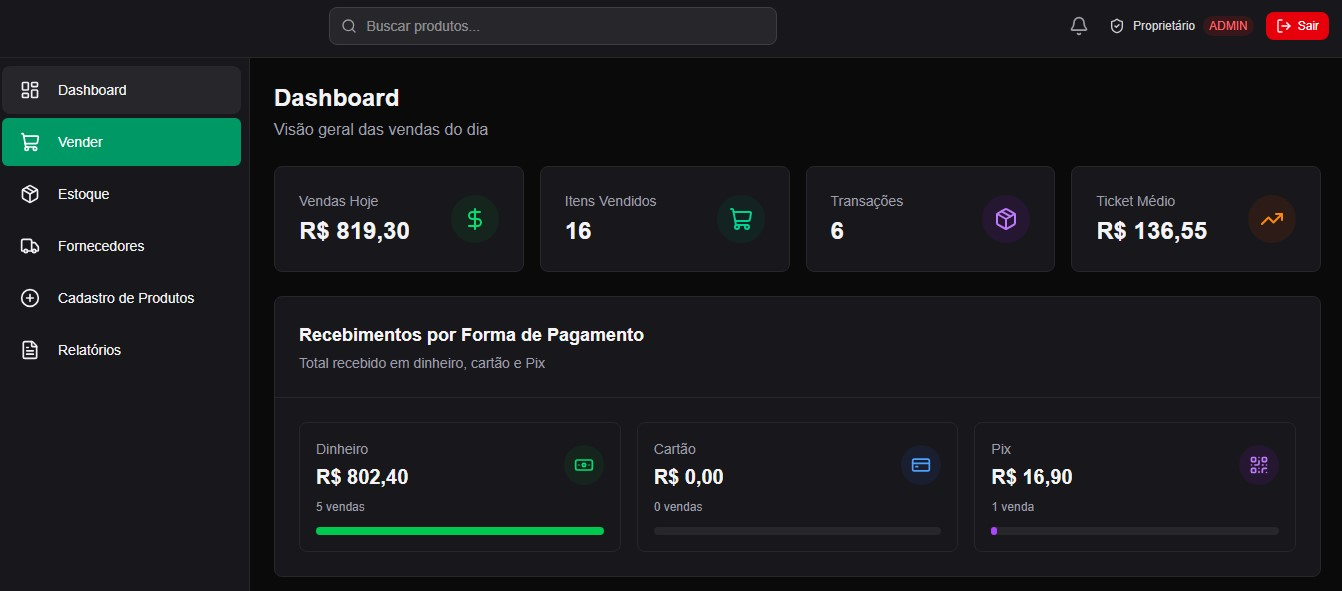
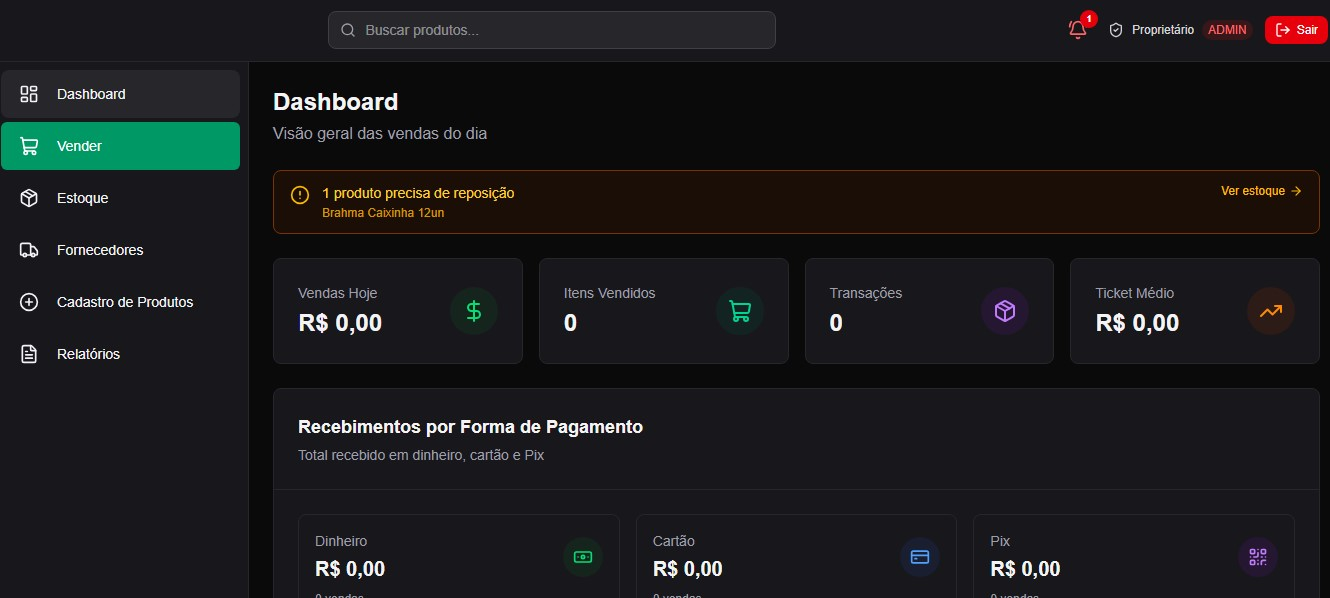
Ataulizando a pagina de sites e sistemas

diff --git a/components/home/ProjectsSection.tsx b/components/home/ProjectsSection.tsx
@@ -1,8 +1,14 @@
+"use client";
+
+
 import Image from "next/image";
+import { useState } from "react";
 import SectionHeading from "@/components/home/SectionHeading";
 import { projects, type Project } from "@/data/projects";
+import { whatsappUrl } from "@/lib/whatsapp";
 
 function ProjectCard({ project, position }: { project: Project; position: number }) {
+  const [hover, setHover] = useState(false);
   return (
     <article className="group flex h-full flex-col border border-line bg-white p-6 transition-colors hover:border-ink md:p-8">
       {project.image && (
@@ -12,9 +18,11 @@ function ProjectCard({ project, position }: { project: Project; position: number
             target="_blank"
             rel="noopener noreferrer"
             className="relative -mx-6 -mt-6 mb-6 block h-40 overflow-hidden border-b border-line bg-white sm:h-48 md:-mx-8 md:-mt-8 md:h-56"
+            onMouseEnter={() => setHover(true)}
+            onMouseLeave={() => setHover(false)}
           >
             <Image
-              src={project.image}
+              src={hover && project.hoverImage ? project.hoverImage : project.image}
               alt={`Captura de tela do projeto ${project.name}`}
               fill
               sizes="(min-width: 768px) 50vw, 100vw"
@@ -22,9 +30,13 @@ function ProjectCard({ project, position }: { project: Project; position: number
             />
           </a>
         ) : (
-          <div className="relative -mx-6 -mt-6 mb-6 h-40 overflow-hidden border-b border-line bg-white sm:h-48 md:-mx-8 md:-mt-8 md:h-56">
+          <div
+            className="relative -mx-6 -mt-6 mb-6 h-40 overflow-hidden border-b border-line bg-white sm:h-48 md:-mx-8 md:-mt-8 md:h-56"
+            onMouseEnter={() => setHover(true)}
+            onMouseLeave={() => setHover(false)}
+          >
             <Image
-              src={project.image}
+              src={hover && project.hoverImage ? project.hoverImage : project.image}
               alt={`Captura de tela do projeto ${project.name}`}
               fill
               sizes="(min-width: 768px) 50vw, 100vw"
@@ -44,12 +56,16 @@ function ProjectCard({ project, position }: { project: Project; position: number
       <h3 className="mt-5 text-[19px] font-semibold leading-snug tracking-tight text-ink">
         {project.name}
       </h3>
+      {project.category && (
+        <p className="mt-1 font-mono text-[10.5px] uppercase tracking-[0.14em] text-neutral-500">
+          {project.category}
+        </p>
+      )}
       {project.description && (
         <p className="mt-3 text-[15px] leading-relaxed text-neutral-600">
           {project.description}
         </p>
       )}
-
       <div className="mt-6 border-l-2 border-neon pl-4">
         <p className="font-mono text-[10.5px] uppercase tracking-[0.14em] text-neutral-500">
           Problema resolvido
@@ -57,16 +73,55 @@ function ProjectCard({ project, position }: { project: Project; position: number
         <p className="mt-2 text-sm leading-relaxed text-neutral-700">{project.problem}</p>
       </div>
 
-      {project.link && (
+      {(project.price !== undefined || project.priceLabel) && (
+        <div className="mt-4 flex items-baseline gap-3">
+          {project.oldPrice !== undefined && (
+            <span className="font-mono text-[13px] text-neutral-400 line-through">
+              R$ {project.oldPrice}
+            </span>
+          )}
+          {project.price !== undefined ? (
+            <span className="font-mono text-[19px] font-semibold text-ink">
+              R$ {project.price}
+            </span>
+          ) : (
+            <span className="font-mono text-[19px] font-semibold text-ink">
+              {project.priceLabel}
+            </span>
+          )}
+        </div>
+      )}
+
+      {project.payment && (
+        <p className="mt-1 font-mono text-[12px] text-neutral-500">
+          {project.payment}
+        </p>
+      )}
+
+      {project.price !== undefined || project.priceLabel ? (
         <a
-          href={project.link}
+          href={whatsappUrl(
+            `Olá, CODE_PH! Tenho interesse no ${project.name.trim()}.\nResumo do pedido:\n- Produto: ${project.name.trim()}${project.category ? ` (${project.category})` : ""}\n- Valor: ${project.price !== undefined ? `R$ ${project.price}` : (project.priceLabel ?? "")}${project.oldPrice !== undefined ? ` (de R$ ${project.oldPrice})` : ""}\n${project.payment ? `- Pagamento: ${project.payment}\n` : ""}${project.description ? `- Descrição: ${project.description}\n` : ""}Link: ${project.link ?? ""}`,
+          )}
           target="_blank"
           rel="noopener noreferrer"
-          className="mt-7 inline-flex items-center gap-2 font-mono text-[13px] font-semibold text-ink underline decoration-neon decoration-2 underline-offset-4 transition-colors hover:decoration-ink"
+          className="mt-7 inline-flex items-center gap-2 border border-ink bg-ink px-4 py-2.5 font-mono text-[13px] font-semibold text-white transition-colors hover:bg-neon hover:text-black"
         >
-          Ver projeto
+          {project.ctaLabel ?? "Comprar agora no WhatsApp"}
           <span aria-hidden="true">→</span>
         </a>
+      ) : (
+        project.link && (
+          <a
+            href={project.link}
+            target="_blank"
+            rel="noopener noreferrer"
+            className="mt-7 inline-flex items-center gap-2 font-mono text-[13px] font-semibold text-ink underline decoration-neon decoration-2 underline-offset-4 transition-colors hover:decoration-ink"
+          >
+            Ver projeto
+            <span aria-hidden="true">→</span>
+          </a>
+        )
       )}
     </article>
   );
@@ -78,8 +133,8 @@ export default function ProjectsSection() {
       <div className="mx-auto max-w-6xl px-5">
         <SectionHeading
           index="02"
-          label="PROJETOS"
-          title="Projetos da CODE_PH"
+          label="SITES E SISTEMAS"
+          title="Sites e Sistemas da CODE_PH"
           description="Trabalhos entregues, com o problema que cada um resolveu."
         />
 
@@ -95,7 +150,7 @@ export default function ProjectsSection() {
           </div>
         ) : (
           <p className="mt-11 border border-dashed border-line bg-mist px-6 py-10 text-center text-[15px] text-neutral-600">
-            Os projetos estão sendo documentados e serão publicados aqui.
+            Os sites e sistemas estão sendo documentados e serão publicados aqui.
           </p>
         )}
       </div>

diff --git a/data/projects.ts b/data/projects.ts
@@ -1,55 +1,95 @@
 export interface Project {
   id: string;
   name: string;
+  category?: string;
   description?: string;
   problem: string;
   link?: string;
   image?: string;
+  hoverImage?: string;
+  oldPrice?: number;
+  price?: number;
+  priceLabel?: string;
+  payment?: string;
+  ctaLabel?: string;
 }
 
 export const projects: Project[] = [
-  {
-    id: "vizion-store",
-    name: "Vizion Store",
-    
-    problem:
-      "Vender online sem depender de divulgar peça por peça nas redes: reunir catálogo, preços, descontos e contato em um único endereço que funciona no celular.",
-    link: "https://vizionstore61.com.br/",
-    image: "/loja-vizion.png",
-  },
+{
+  id: "code-ph",
+  name: "CODE_PH — Soluções Digitais",
+  category: "Site Institucional",
+  description:
+    "Site profissional para apresentação e venda de serviços e soluções digitais, com assistente virtual integrado e atendimento pelo WhatsApp.",
+  problem:
+    "Centralizar serviços, produtos e solicitações de orçamento em um único endereço, facilitando o atendimento aos clientes por meio de um assistente virtual e integração com WhatsApp.",
+  link: "https://asssistenciaph.vercel.app/",
+  image: "/assitentev.jpg",
+  hoverImage: "/assitentev2.jpg",
+  oldPrice: 1699,
+  price: 1499,
+    payment: "Avista ou R$ 500 entrada + 3 parcelas de R$ 366",
+
+  ctaLabel: "COMPRAR AGORA PELO WHATSAPP",
+},
 
   {
     id: "Catalogo-tenis",
     name: " + Tênis",
-
+    description:
+      "Catálogo digital de tênis com fotos tamanhos ,cores, preços e pedido direto pelo WhatsApp site de identidade profissional tudo em apenas um link.",
     problem:
       "Vender online sem depender de divulgar peça por peça nas redes: reunir catálogo, preços, descontos e contato em um único endereço que funciona no celular.",
     link: "https://catalago-whatsapp.vercel.app/",
     image: "/catalogo-tenis.jpg",
+    hoverImage: "/catalago1.jpg",
+    oldPrice: 799,
+    price: 599,
+    payment: "Avista ou R$ 400 entrada + 2 parcelas de R$ 200",
   },
  
-  {
+    {
     id: "portfolio-codeph",
     name: "Portfólio Profissional",
+    description:
+      "Portfólio digital com apresentação completa de formação, projetos e contato.",
     problem:
-      "Reunir formação, projetos e contato em um endereço único e atualizado, em vez de espalhar a apresentação em anexos e mensagens.Assistente virtual integrado ao portfólio, desenvolvido para responder perguntas sobre experiências profissionais, competências técnicas, projetos e informações do currículo, utilizando os dados disponibilizados à aplicação.",
-    link: "https://portifolio-cyber.vercel.app/",
+      "Assistente virtual integrado ao portfólio, desenvolvido para responder perguntas sobre experiências profissionais, competências técnicas, projetos e informações do currículo, utilizando os dados disponibilizados à aplicação.",
+   link: "https://portifolio-cyber.vercel.app/",
       image: "/portifolio.jpg",
+      hoverImage: "/portifolio1.jpg",
+    oldPrice: 599,
+    price: 399,
+    payment: "Avista ou R$ 300 entrada + 2 parcelas de R$ 150",
   },
   {
     id: "sr-srta-gourmet",
     name: "Sr. e Srta. Gourmet — buffet para eventos",
+     description:
+    "Site profissional para buffet, com apresentação de serviços, cardápio, informações e formulário para solicitação de orçamentos.",
     problem:
-      "Transformar pedidos de orçamento espalhados em mensagens em um fluxo organizado: o cliente monta a solicitação pelo site, envia pelo WhatsApp e o buffet retorna com a proposta avaliando cada evento.",
-    link: "https://sresragourmet.vercel.app/",
+      "Transformar pedidos de orçamento espalhados em mensagens em um fluxo organizado: o cliente monta a solicitação pelo site, envia pelo WhatsApp e o buffet retorna com a proposta avaliando cada evento de forma individual.",
+    link: "https://catalago-whatsapp.vercel.app/",
     image: "/Gourmet.jpg",
+    hoverImage: "/Gourmet1.jpg",
+    oldPrice: 999,
+    price: 799,
+    payment: "Avista ou R$ 500 entrada + 2 parcelas de R$ 250",
   },
-    {
+
+   {
     id: "pdv-gestao",
-  name: "PDV gestão de vendas",
-    problem:
+     name: "PDV gestão de vendas",
+     description:
+    "Site profissional para buffet, com apresentação de serviços, cardápio, informações e formulário para solicitação de orçamentos.",
+     problem:
       "Gerenciar vendas, estoque e clientes de forma integrada: o sistema permite registrar produtos, controlar estoque, emitir notas fiscais e gerar relatórios de vendas, facilitando a gestão do negócio.",
     link: "https://pdv-vendas-balcao.vercel.app/",
     image: "/pdv.jpg",
+    hoverImage: "/pdv1.jpg",
+    oldPrice: 1700,
+    price: 1499,
+    payment: "Entrada de 500 R$ + 3 parcelas de 400 R$",
+  
   },
 ];

diff --git a/data/knowledge.ts b/data/knowledge.ts
@@ -604,7 +604,7 @@ Atua em duas frentes:
 - assistência técnica para computadores, notebooks e celulares;
 - soluções digitais: sites, catálogo digital, PDV, controle de estoque, sistema de agendamento e ferramentas personalizadas.
 
-O atendimento acontece pelo WhatsApp. O Instagram é @code_ph_sd. O site reúne serviços, projetos e os canais de contato.`,
+O atendimento acontece pelo WhatsApp. O Instagram é @code_ph_sd. O site reúne serviços, sites e sistemas e os canais de contato.`,
     tags: [
       "code_ph",
       "empresa",

diff --git a/data/site.ts b/data/site.ts
@@ -9,7 +9,7 @@ export const brand = {
 export const navLinks = [
   { href: "/#inicio", label: "Início" },
   { href: "/#servicos", label: "Serviços" },
-  { href: "/#projetos", label: "Projetos" },
+  { href: "/#projetos", label: "Sites e Sistemas" },
   { href: "/orcamento", label: "Orçamento" },
   { href: "/#contato", label: "Contato" },
 ] as const;
